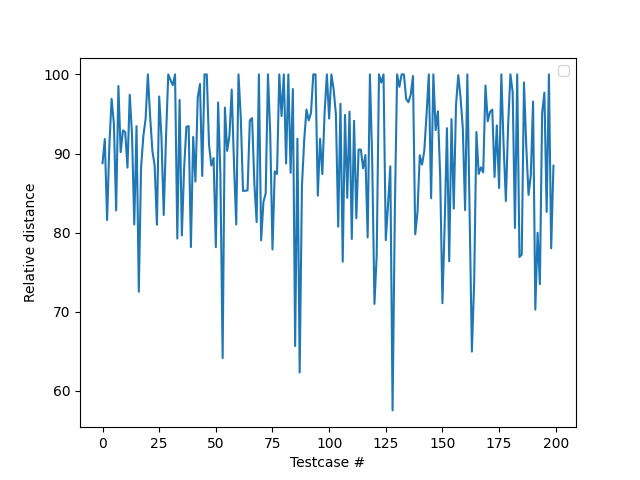
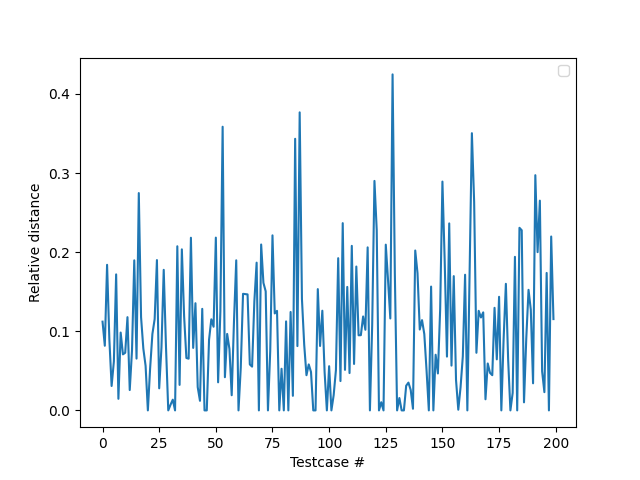
full map visualisation done

diff --git a/algorithm/data_processing/graph.cpp b/algorithm/data_processing/graph.cpp
@@ -177,6 +177,102 @@ vector<int> normalize(vector<vector<pair<int, long double>>> &graph)
 }
 
 
+
+
+vector<int> get_sites(const vector<vector<pair<int, long double>>> &graph, const vector<long double> &traffic)
+{
+    // // to store the nodes based on the order of their preference (max heap)
+    // priority_queue<pair<long double, int>> pq;
+
+    // int n = graph.size();
+
+    // const int MAX_DEPTH = 10;
+
+    // for(int i=0; i<n; i++)
+    // {
+    //     // Find the 'weight' of node-i
+    //     vector<long double> traffic_layers;
+    //     vector<int> number_of_nodes;
+
+    //     vector<int> dist(n, -1);
+
+    //     queue<int> qu;
+
+    //     dist[i] = 0;
+    //     qu.push(i);
+
+    //     while(!qu.empty())
+    //     {
+    //         int cur = qu.front();
+    //         qu.pop();
+
+    //         int depth = dist[cur];
+    //         if(depth > MAX_DEPTH)
+    //             break;
+            
+    //         if(traffic_layers.size() == depth)
+    //             traffic_layers.push_back(0.00);
+            
+    //         if(number_of_nodes.size() == depth)
+    //             number_of_nodes.push_back(0);
+            
+    //         traffic_layers[depth] += traffic[cur];
+    //         number_of_nodes[depth]++;
+
+
+    //         for(int i=0; i<graph[cur].size(); i++)
+    //         {
+    //             int a = graph[cur][i].first;
+    //             long double wt = graph[cur][i].second;  // any weightage of this?
+
+    //             if(dist[a] != -1)
+    //                 continue;
+                
+    //             dist[a] = depth + 1;
+    //             qu.push(a);
+    //         }
+    //     }
+
+    //     long double weightage = 0.00;
+    //     for(int i=0; i<traffic_layers.size(); i++)
+    //         weightage += traffic_layers[i]*number_of_nodes[i];
+        
+    //     pq.push({weightage, i});
+    // }
+
+  
+
+    // for(int i=0; i<10; i++)
+    // {
+    //     cout<<pq.top().second<<"\t"<<pq.top().first<<'\n';
+    //     pq.pop();
+    // }
+
+    // Doesn't work as all the top nodes are concentrated in a locality
+
+
+
+    // For testing only. Actual implementation to be done
+    
+    int m = 10;
+    vector<int> sites(m);
+    sites[m-10] = 9898;
+    sites[m-9] = 6511;
+    sites[m-8] = 3240;
+    sites[m-7] = 8748;
+    sites[m-6] = 5000;
+    sites[m-5] = 2;
+    sites[m-4] = 100;
+    sites[m-3] = 11028;
+    sites[m-2] = 994;
+    sites[m-1] = 1245;
+
+
+    return sites;
+}
+
+
+
 vector<long double> get_traffic(const unordered_map<int, int> &node_to_id)
 {
     int n = node_to_id.size();  // total number of nodes
@@ -287,7 +383,7 @@ vector<vector<long double>> calculate_distance_matrix(const vector<vector<pair<i
 
 void store_results(const vector<int> &sites, const vector<int> &station_nodes, const unordered_map<int, int> &id_to_node)
 {    
-    ofstream of("./data/stations_location", ofstream::out);
+    ofstream of("./data/stations_location", ofstream::app);
 
     for(int i=0; i<sites.size(); i++)
         of<<id_to_node.find(sites[i])->second<<" ";

diff --git a/algorithm/data_processing/plotting/plot.py b/algorithm/data_processing/plotting/plot.py
@@ -1,27 +1,40 @@
 import matplotlib.pyplot as plt
 
+
+a = set()
+c = set()  # all the candidate sites nodes
+b = set()  # all the station nodes
+
 # Collect the component nodes
 with open('../data/components.txt', 'r') as fi:
 
-    a = fi.readline()
-    a = a.split(' ')[:-1]   # remove the last '\n' character
-    a = list(map(int, a))
+    for line in fi.readlines():
+        line = line.split(' ')[:-1]   # remove the last '\n' character
+        line = list(map(int, line))
+        a = a.union(line)
 
 
 # Collect the site nodes and station nodes
 with open('../data/stations_location', 'r') as fi:
-    c = fi.readline()
-    c = c.split(' ')[:-1]
-    c = list(map(int, c))
-    
-    b = fi.readline()
-    b = b.split(' ')[:-1]
-    b = list(map(int, b))
 
+    data = fi.readlines()
 
-a = set(a)
-c = set(c)
-b = set(b)
+    i = 0
+    while i < len(data):
+
+        tmp = data[i]
+        tmp = tmp.split(' ')[:-1]
+        tmp = list(map(int, tmp))
+        
+        c = c.union(tmp)
+
+        tmp = data[i+1]
+        tmp = tmp.split(' ')[:-1]
+        tmp = list(map(int, tmp))
+
+        b = b.union(tmp)
+
+        i += 2
 
 
 coord = {}
@@ -58,7 +71,7 @@ plt.grid(False)
 plt.axis('off')
 
 with open('../data/edges.csv', 'r') as fi:
-    _ = fi.readline()   # consime the header line
+    _ = fi.readline()   # consume the header line
 
     for row in fi.readlines():
         row = row.split(' ')
@@ -69,7 +82,7 @@ with open('../data/edges.csv', 'r') as fi:
             p1 = coord[u]
             p2 = coord[v]
 
-            plt.plot([p1[0], p2[0]], [p1[1], p2[1]], color='black', linewidth=1)
+            plt.plot([p1[0], p2[0]], [p1[1], p2[1]], color='grey', linewidth=1)
 
     
 
@@ -78,11 +91,11 @@ alpha = 1.00001
 
 for key in sites_coord:
     x, y = sites_coord[key]
-    plt.plot([x, alpha*x], [y, alpha*y], color='red', linewidth=5)
+    plt.plot([x, alpha*x], [y, alpha*y], color='blue', linewidth=5)
 
 for key in s_coord:
     x, y = s_coord[key]
-    plt.plot([x, alpha*x], [y, alpha*y], color='green', linewidth=5)
+    plt.plot([x, alpha*x], [y, alpha*y], color='red', linewidth=5)
 
 
 plt.show()

diff --git a/algorithm/comparisons/plotter.py b/algorithm/comparisons/plotter.py
@@ -72,7 +72,7 @@ plt.show()
 
 rel_dist = []
 for i in range(len(x)):
-    rel_dist.append(100 - (y3[i]-y1[i])*100/(y2[i]-y1[i]))
+    rel_dist.append((y3[i]-y1[i])/(y2[i]-y1[i]))
 
 
 plt.xlabel('Testcase #')
@@ -90,14 +90,27 @@ for i in range(len(x)):
 
 import numpy as np
 
-print('average relative distance =', np.mean(rel_dist), '%')
-print('minimum =', np.min(error))
-print('maximum =', np.max(error))
-print('mean =', np.mean(error))
-print('std =', np.std(error))
-print('0.25 quantile =', np.quantile(error, 0.25))
-print('0.50 quantile =', np.quantile(error, 0.50))
-print('0.75 quantile =', np.quantile(error, 0.75))
+print('Relative distance: ')
+print('\taverage =', np.mean(rel_dist))
+print('\tminimum =', np.min(rel_dist))
+print('\tmaximum =', np.max(rel_dist))
+print('\tstd =', np.std(rel_dist))
+print('\t0.25 quantile =', np.quantile(rel_dist, 0.25))
+print('\t0.50 quantile =', np.quantile(rel_dist, 0.50))
+print('\t0.75 quantile =', np.quantile(rel_dist, 0.75))
+
+
+
+
+print('\n')
+print('Error: ')
+print('\tminimum =', np.min(error))
+print('\tmaximum =', np.max(error))
+print('\tmean =', np.mean(error))
+print('\tstd =', np.std(error))
+print('\t0.25 quantile =', np.quantile(error, 0.25))
+print('\t0.50 quantile =', np.quantile(error, 0.50))
+print('\t0.75 quantile =', np.quantile(error, 0.75))
 
 
 plt.xlabel('Testcase #')

diff --git a/algorithm/data_processing/utils.cpp b/algorithm/data_processing/utils.cpp
@@ -62,26 +62,19 @@ void process(const string &line)
     }
 
 
-    // Get the candidte sites
+    // Get the traffic levels
+    vector<long double> traffic = get_traffic(node_to_id);
 
-    // For testing only. Actual implementation to be done
-    int m = 10;
-    vector<int> sites(m);
-    sites[m-10] = 9898;
-    sites[m-9] = 6511;
-    sites[m-8] = 3240;
-    sites[m-7] = 8748;
-    sites[m-6] = 5000;
-    sites[m-5] = 2;
-    sites[m-4] = 100;
-    sites[m-3] = 11028;
-    sites[m-2] = 994;
-    sites[m-1] = 1245;
+
+    // Get the candidte sites
+    vector<int> sites = get_sites(graph, traffic);
+    int m = sites.size();
 
 
     // Get the construction costs
     // Keep the construction costs same for now
     vector<long double> construction_cost(m, 1.00);
+
 
 
     // Get the distance matrix
@@ -91,9 +84,6 @@ void process(const string &line)
     // cout<<dist.size()<<" "<<dist[0].size()<<'\n';
 
     // cout<<dist[0][0]<<" "<<dist[0][100]<<'\n';
-
-    // // Get the traffic levels
-    vector<long double> traffic = get_traffic(node_to_id);
 
 
     // Call the genetic algorithm

diff --git a/algorithm/data_processing/main.cpp b/algorithm/data_processing/main.cpp
@@ -8,9 +8,15 @@ using std::cout;
 using std::ifstream;
 using std::istream;
 using std::getline;
+using std::ofstream;
+
 
 int main()
 {
+    // Clear the output file
+    ofstream of("./data/stations_location", ofstream::out);
+    of.close();
+
     // Get the components one by one and run the algorithm on them
 
     ifstream fi("./data/components.txt", istream::in);
@@ -22,8 +28,8 @@ int main()
         process(line);
 
 
-        // Just one component experiment
-        break;
+        // // Just one component experiment
+        // break;
     }
 
 

diff --git a/algorithm/data_processing/graph.h b/algorithm/data_processing/graph.h
@@ -6,7 +6,10 @@ vector<vector<pair<int, long double>>> get_graph(const unordered_map<int, int> &
 
 vector<int> normalize(vector<vector<pair<int, long double>>> &graph);
 
+vector<int> get_sites(const vector<vector<pair<int, long double>>> &graph, const vector<long double> &traffic);
+
 vector<long double> get_traffic(const unordered_map<int, int> &node_to_id);
+
 
 vector<vector<long double>> calculate_distance_matrix(const vector<vector<pair<int, long double>>> &graph, const vector<int> &sites);
 
